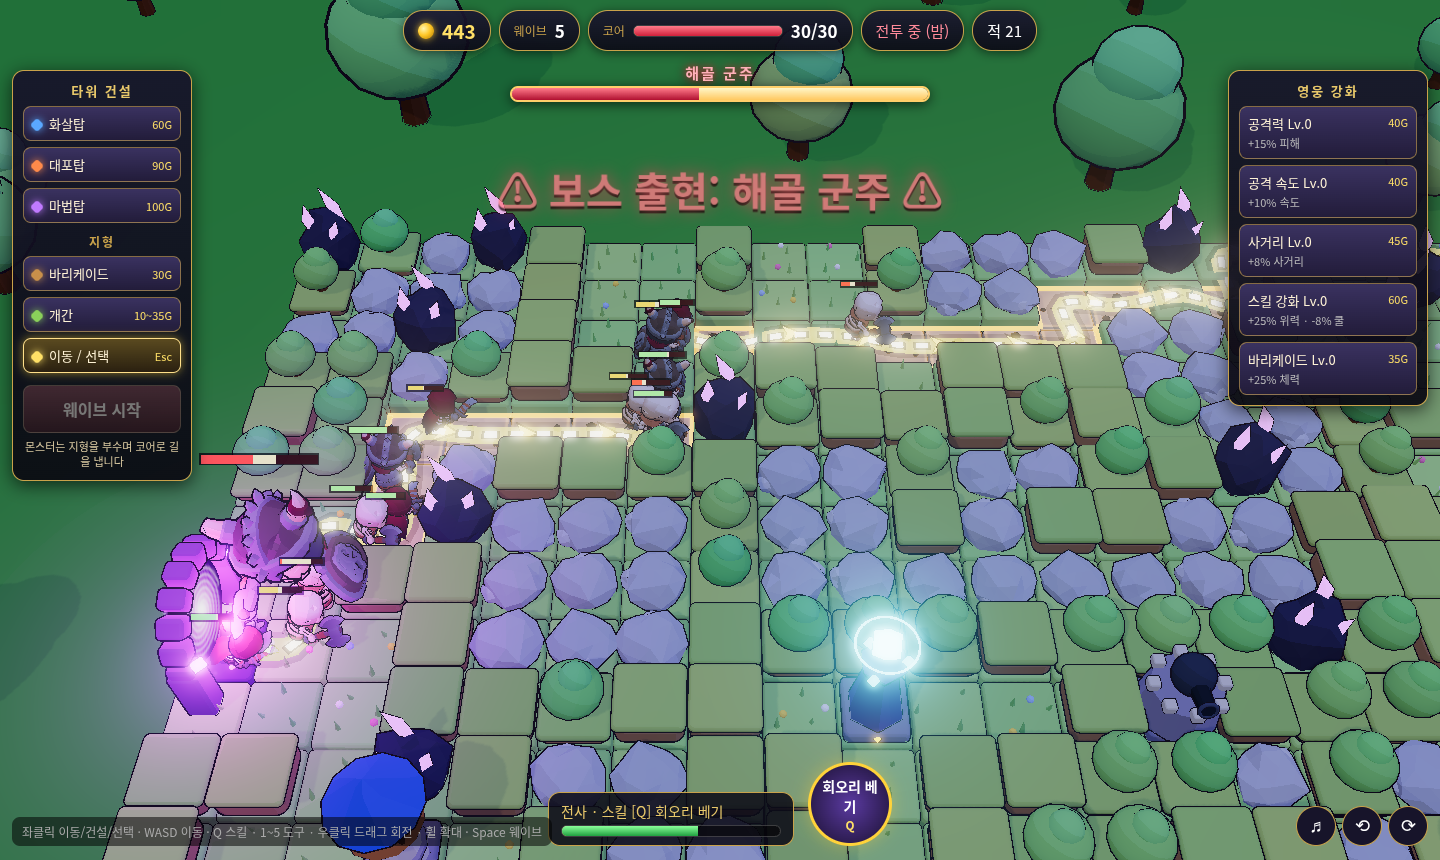
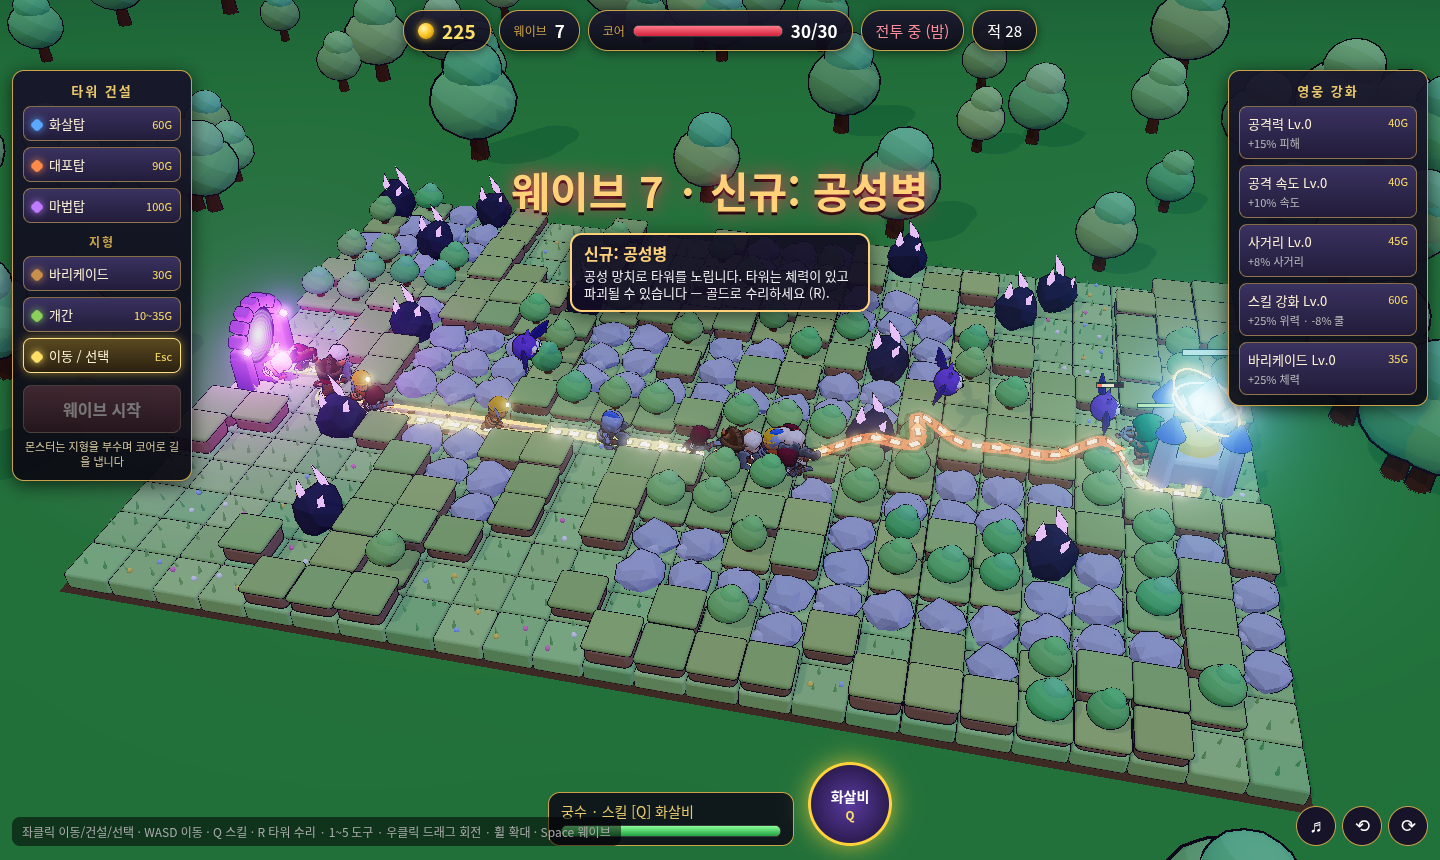
Stage 4: CHANGELOG, README, screenshots

diff --git a/CHANGELOG.md b/CHANGELOG.md
@@ -1,0 +1,25 @@
+# CHANGELOG
+
+## 2026-10-18 — 구조 개편 + 신규 몬스터 5종 + 타워 체력
+
+### 구조 (Stage 1)
+- 단일 main.js → `src/` 역할별 모듈: `data/`(terrain, heroes, monsters, towers, paths — 스탯 데이터 주도), `core/`(grid, state, util, waves), `world/`(terrain, pathfinding, towers, barricades), `monsters/`(enemy, ai), `heroes/`(hero, skills), `combat/`(projectiles), `render/`(scene, toon, vfx, hpbars, characters, route), `audio/`, `ui/`(hud, input, select). main.js는 68줄 부트/루프만 남음.
+
+### 경로 탐색 (Stage 3)
+- 몬스터 타입별 비용 프로필(default / digger: 굴착 선호 / charger: 파인 길 강선호 / siege: 타워 목표) 별 다익스트라 흐름장 캐시. 지형 변경 시 dirty 플래그 + 0.35s 스로틀 재계산, 필요한 프로필만 계산.
+- 굴착병이 판 터널은 일반 지형(CARVED)이라 모든 몬스터가 이용.
+- 겹침 밀어내기: 64마리 초과 시 공간 해시(O(n)), 이하는 기존과 동일 순서. 100마리 초과 시 애니메이션 격프레임, 140마리 초과 시 적 그림자/외곽선 끔.
+
+### 신규 몬스터 (Stage 2)
+- 굴착병: 지형을 ~5.7배 빠르게 파서 새 터널 개척 (흙 1.25s vs 기존 7s)
+- 돌격병: 파인 길 선호(경로의 94%가 참호), 참호 위 전력 질주(최고 6.4)
+- 방패병: 정면 원거리 피해 85% 감소, 근접 40% 감소, 옆 30%, 뒤 +25%; 방향 없는 범위 피해는 그대로
+- 자폭병: 근처 타워/바리케이드로 돌진 → 점화 → 폭발(타워 170 피해, 주변 지형 파괴)
+- 공성병: 타워를 목표로 이동, 공성 망치로 타워 공격·파괴 후 코어로
+- 타워 체력/파괴/수리(UI 버튼, R 키, 골드 비용), 업그레이드 시 최대 체력 증가
+- 웨이브 소개 배너/설명. `?classic=1` 은 기존 웨이브 구성 유지
+
+### 테스트 (Stage 0/4)
+- `tests/regress.py` (?test 시드 RNG + 수동 시계) — 기준 대비 MATCH (영웅·타워·사운드 트리거·지형 굴착·밸런스)
+- `tests/monsters.py` — 신규 몬스터 행동, 타워 파괴·수리 ALL OK
+- `tests/stress.py` — 100/200/300마리: 로직 스텝 평균 2.0/2.5/3.7ms, 경로 재계산 0.14ms/회(최대 1.6ms)

diff --git a/README.md b/README.md
@@ -15,6 +15,7 @@ Three.js(로컬 번들, CDN 없음)로 만든 쿼터뷰 3D 웹 디펜스 게임.
 - **개간**: 골드로 블록을 치워 타워 자리를 확보
 - **영웅**(궁수/마법사/전사)을 직접 조종하며 싸움 · 스킬 Q · 사망 시 5초 후 부활
 - 해골 도적/병사/기사, 유령 박쥐(비행), 5웨이브마다 해골 군주 보스
+- 신규: 굴착병·돌격병·방패병·자폭병·공성병 (CHANGELOG.md 참고), 타워 체력·수리(R)
 - 툰 셰이딩 + 외곽선, 블룸, 그림자, 낮(건설)/밤(전투), 파티클, 데미지 숫자, 코인 연출
 - 몬스터 길 표시: 파낸 참호 바닥 발광 + 가장자리 빛 테두리, 예상 경로 리본(점선, 파야 할 구간은 주황), 코어로 흐르는 화살표
 - HP 바: 영웅/적/보스/바리케이드/코어 공통 빌보드 바 (같은 왼쪽 기준점, 피해 잔상 바), 화면 상단 보스 체력 바
@@ -25,6 +26,7 @@ Three.js(로컬 번들, CDN 없음)로 만든 쿼터뷰 3D 웹 디펜스 게임.
 
 ![heroes](heroes.png)
 ![gameplay](screenshot.png)
+![monsters](monsters.png)
 
 ## 크레딧
 - 캐릭터·무기 모델: **KayKit Adventurers & KayKit Skeletons Character Packs** by Kay Lousberg
